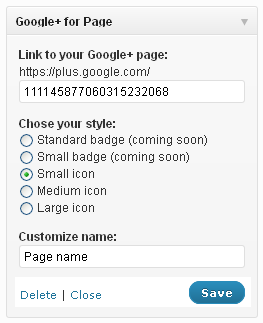
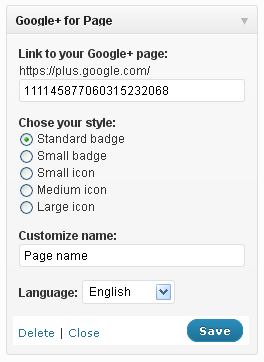
1.1
git-svn-id: https://plugins.svn.wordpress.org/google-for-page/trunk@461226 b8457f37-d9ea-0310-8a92-e5e31aec5664

diff --git a/google-plus-page.php b/google-plus-page.php
@@ -3,7 +3,7 @@
 Plugin Name: Google+ for Page
 Plugin URI: http://www.darkomitrovic.com/wp-plugin/google-plus-page/
 Description: Add the Google+ Badge or Icon to your website to increase engagement and create a lasting connection with your audience.
-Version: 1.0
+Version: 1.1
 Author: Darko Mitrovic
 Author URI: http://www.darkomitrovic.com/
 License: GPL2
@@ -21,10 +21,11 @@ class GooglePlusPageWidget extends WP_Widget
  
   function form($instance)
   {
-    $instance = wp_parse_args( (array) $instance, array( 'link' => '111145877060315232068', 'style' => '3', 'name' => 'Page name' ) );
+    $instance = wp_parse_args( (array) $instance, array( 'link' => '111145877060315232068', 'style' => '1', 'name' => 'Page name', 'lang' => 'en' ) );
     $link = $instance['link'];
     $style = $instance['style'];
     $name = $instance['name'];
+    $lang = $instance['lang'];
 ?>
 
 
@@ -45,9 +46,9 @@ class GooglePlusPageWidget extends WP_Widget
 	<strong>Chose your style:</strong>
 	</label><br />
 		<input type="radio" id="<?php echo $this->get_field_name('style'); ?>" name="<?php echo $this->get_field_name('style'); ?>" value="1" <?php if($instance['style'] == 1) {echo 'checked="checked"';} ?> />
-		Standard badge (coming soon)<br />
+		Standard badge<br />
 		<input type="radio" id="<?php echo $this->get_field_name('style'); ?>" name="<?php echo $this->get_field_name('style'); ?>" value="2" <?php if($instance['style'] == 2) {echo 'checked="checked"';} ?> />		
-		Small badge (coming soon)<br />
+		Small badge<br />
 		<input type="radio" id="<?php echo $this->get_field_name('style'); ?>" name="<?php echo $this->get_field_name('style'); ?>" value="3" <?php if($instance['style'] == 3) {echo 'checked="checked"';} ?> />		
 		Small icon<br />
 		<input type="radio" id="<?php echo $this->get_field_name('style'); ?>" name="<?php echo $this->get_field_name('style'); ?>" value="4" <?php if($instance['style'] == 4) {echo 'checked="checked"';} ?> />		
@@ -66,6 +67,54 @@ class GooglePlusPageWidget extends WP_Widget
  
  
  
+<p>
+	<label for="<?php echo $this->get_field_id('lang'); ?>">
+	<strong>Language:</strong>
+	</label>
+	<select id="<?php echo $this->get_field_id( 'lang' ); ?>" name="<?php echo $this->get_field_name( 'lang' ); ?>">
+		<option value="ar" <?php if($instance['lang'] == ar) {echo 'selected="selected"';} ?>>Arabic</option>
+		<option value="bg" <?php if($instance['lang'] == bg) {echo 'selected="selected"';} ?>>Bulgarian</option>
+		<option value="ca" <?php if($instance['lang'] == de) {echo 'selected="selected"';} ?>>Catalan</option>
+		<option value="zh" <?php if($instance['lang'] == zh) {echo 'selected="selected"';} ?>>Chinese</option>
+		<option value="hr" <?php if($instance['lang'] == hr) {echo 'selected="selected"';} ?>>Croatian</option>
+		<option value="cs" <?php if($instance['lang'] == cs) {echo 'selected="selected"';} ?>>Czech</option>
+		<option value="da" <?php if($instance['lang'] == da) {echo 'selected="selected"';} ?>>Danish</option>
+		<option value="nl" <?php if($instance['lang'] == nl) {echo 'selected="selected"';} ?>>Dutch</option>
+		<option value="en" <?php if($instance['lang'] == en) {echo 'selected="selected"';} ?>>English</option>
+		<option value="et" <?php if($instance['lang'] == et) {echo 'selected="selected"';} ?>>Estonian</option>
+		<option value="fil" <?php if($instance['lang'] == fil) {echo 'selected="selected"';} ?>>Filipino</option>
+		<option value="fi" <?php if($instance['lang'] == fi) {echo 'selected="selected"';} ?>>Finnish</option>
+		<option value="fr" <?php if($instance['lang'] == fr) {echo 'selected="selected"';} ?>>French</option>
+		<option value="de" <?php if($instance['lang'] == de) {echo 'selected="selected"';} ?>>German</option>
+		<option value="el" <?php if($instance['lang'] == el) {echo 'selected="selected"';} ?>>Greek</option>
+		<option value="iw" <?php if($instance['lang'] == iw) {echo 'selected="selected"';} ?>>Hebrew</option>
+		<option value="hi" <?php if($instance['lang'] == hi) {echo 'selected="selected"';} ?>>Hindi</option>
+		<option value="hu" <?php if($instance['lang'] == hu) {echo 'selected="selected"';} ?>>Hungarian</option>
+		<option value="id" <?php if($instance['lang'] == id) {echo 'selected="selected"';} ?>>Indonesian</option>
+		<option value="it" <?php if($instance['lang'] == it) {echo 'selected="selected"';} ?>>Italian</option>
+		<option value="ja" <?php if($instance['lang'] == ja) {echo 'selected="selected"';} ?>>Japanese</option>
+		<option value="ko" <?php if($instance['lang'] == ko) {echo 'selected="selected"';} ?>>Korean</option>
+		<option value="lv" <?php if($instance['lang'] == lv) {echo 'selected="selected"';} ?>>Latvian</option>
+		<option value="lt" <?php if($instance['lang'] == lt) {echo 'selected="selected"';} ?>>Lithuanian</option>
+		<option value="ms" <?php if($instance['lang'] == ms) {echo 'selected="selected"';} ?>>Malay</option>
+		<option value="no" <?php if($instance['lang'] == no) {echo 'selected="selected"';} ?>>Norwegian</option>
+		<option value="fa" <?php if($instance['lang'] == fa) {echo 'selected="selected"';} ?>>Persian</option>
+		<option value="pl" <?php if($instance['lang'] == pl) {echo 'selected="selected"';} ?>>Polish</option>
+		<option value="pt" <?php if($instance['lang'] == pt) {echo 'selected="selected"';} ?>>Portuguese</option>
+		<option value="ro" <?php if($instance['lang'] == ro) {echo 'selected="selected"';} ?>>Romanian</option>
+		<option value="ru" <?php if($instance['lang'] == ru) {echo 'selected="selected"';} ?>>Russian</option>
+		<option value="sr" <?php if($instance['lang'] == sr) {echo 'selected="selected"';} ?>>Serbian</option>
+		<option value="sv" <?php if($instance['lang'] == sv) {echo 'selected="selected"';} ?>>Swedish</option>
+		<option value="sk" <?php if($instance['lang'] == sk) {echo 'selected="selected"';} ?>>Slovak</option>
+		<option value="sl" <?php if($instance['lang'] == sl) {echo 'selected="selected"';} ?>>Slovenian</option>
+		<option value="es" <?php if($instance['lang'] == es) {echo 'selected="selected"';} ?>>Spanish</option>
+		<option value="th" <?php if($instance['lang'] == th) {echo 'selected="selected"';} ?>>Thai</option>
+		<option value="tr" <?php if($instance['lang'] == tr) {echo 'selected="selected"';} ?>>Turkish</option>
+		<option value="uk" <?php if($instance['lang'] == uk) {echo 'selected="selected"';} ?>>Ukrainian</option>
+		<option value="vi" <?php if($instance['lang'] == vi) {echo 'selected="selected"';} ?>>Vietnamese</option>
+	</select>			
+</p>
+
 
 
  
@@ -82,7 +131,8 @@ class GooglePlusPageWidget extends WP_Widget
     $instance['link'] = $new_instance['link'];
     $instance['style'] = $new_instance['style'];
     $instance['name'] = $new_instance['name'];
-   return $instance;
+    $instance['lang'] = $new_instance['lang'];
+  return $instance;
   }
  
   function widget($args, $instance)
@@ -92,7 +142,7 @@ class GooglePlusPageWidget extends WP_Widget
     echo $before_widget;
 	
     if (!empty($instance['name'])) {
-		$google_title = $instance['name'] . ' on Google+';
+		$google_title = $instance['name'] . '';
 		$title = empty($instance['name']) ? ' ' : apply_filters('widget_title', $google_title);
 		
 		echo $before_title . $title . $after_title;
@@ -102,33 +152,22 @@ class GooglePlusPageWidget extends WP_Widget
 	$link = $instance['link'];
 	$style = $instance['style'];
 	$name = $instance['name'];
+	$lang = $instance['lang'];
 
 
  
     // WIDGET CODE GOES HERE
  	
 	//1
-	if($instance['style'] == 1 && empty($instance['name']) ) {
+	if($instance['style'] == 1 ) {
 	echo '<!-- Google+ for Page | by darkomitrovic.com --!>';
-    echo '<!-- script coming soon --!>';
-    echo '<img src="https://developers.google.com/+/images/badge-sample-large.png" alt="Google+" />';
-	}
-	else if($instance['style'] == 1 && !empty($instance['name']) ) {
-	echo '<!-- Google+ for Page | by darkomitrovic.com --!>';
-    echo '<!-- script coming soon --!>';
-    echo '<img src="https://developers.google.com/+/images/badge-sample-large.png" alt="Google+" />';
+    echo '<div class="g-plus" data-href="https://plus.google.com/'.$link.'" data-size="badge"></div>';
 	}
 	
  	//2
-	else if($instance['style'] == 2 && empty($instance['name']) ) {
+	else if($instance['style'] == 2 ) {
 	echo '<!-- Google+ for Page | by darkomitrovic.com --!>';
-    echo '<!-- script coming soon --!>';
-    echo '<img src="https://developers.google.com/+/images/badge-sample-small.png" alt="Google+" />';
-	}
- 	else if($instance['style'] == 2 && !empty($instance['name']) ) {
-	echo '<!-- Google+ for Page | by darkomitrovic.com --!>';
-    echo '<!-- script coming soon --!>';
-    echo '<img src="https://developers.google.com/+/images/badge-sample-small.png" alt="Google+" />';
+    echo '<div class="g-plus" data-href="https://plus.google.com/'.$link.'" data-size="smallbadge"></div>';
 	}
 
  
@@ -179,12 +218,45 @@ add_action( 'widgets_init', create_function('', 'return register_widget("GoogleP
 
 
 
-/*
 function google_code() {
-echo '<!-- Google+ for Page | by darkomitrovic.com --!>';
-echo'<link href="https://plus.google.com/'.$link.'/" rel="publisher" />';
+
+	
+$options = get_option("widget_googlepluspagewidget"); 
+
+
+//var_dump($options);
+$link = $options[3]['link'];
+$style = $options[3]['style'];
+$lang = $options[3]['lang'];
+//$lang = 'en-US';
+
+
+
+
+	
+	echo '
+	<!-- Google+ for Page | by darkomitrovic.com --!>
+	<link href="https://plus.google.com/'.$link.'/" rel="publisher" />
+	';
+	
+	if ($style == '1' or $style == '2') {
+	?>
+		<script type="text/javascript">
+		window.___gcfg = {lang: '<?php echo $lang ?>'};
+		(function() 
+		{var po = document.createElement("script");
+		po.type = "text/javascript"; po.async = true;po.src = "https://apis.google.com/js/plusone.js";
+		var s = document.getElementsByTagName("script")[0];
+		s.parentNode.insertBefore(po, s);
+		})();</script>
+	<?php	
+	}
+	
+	echo '
+	<!-- Google+ for Page | by darkomitrovic.com --!>	
+	';
+	
 }
 add_action('wp_head', 'google_code');
-*/
 
 ?>
